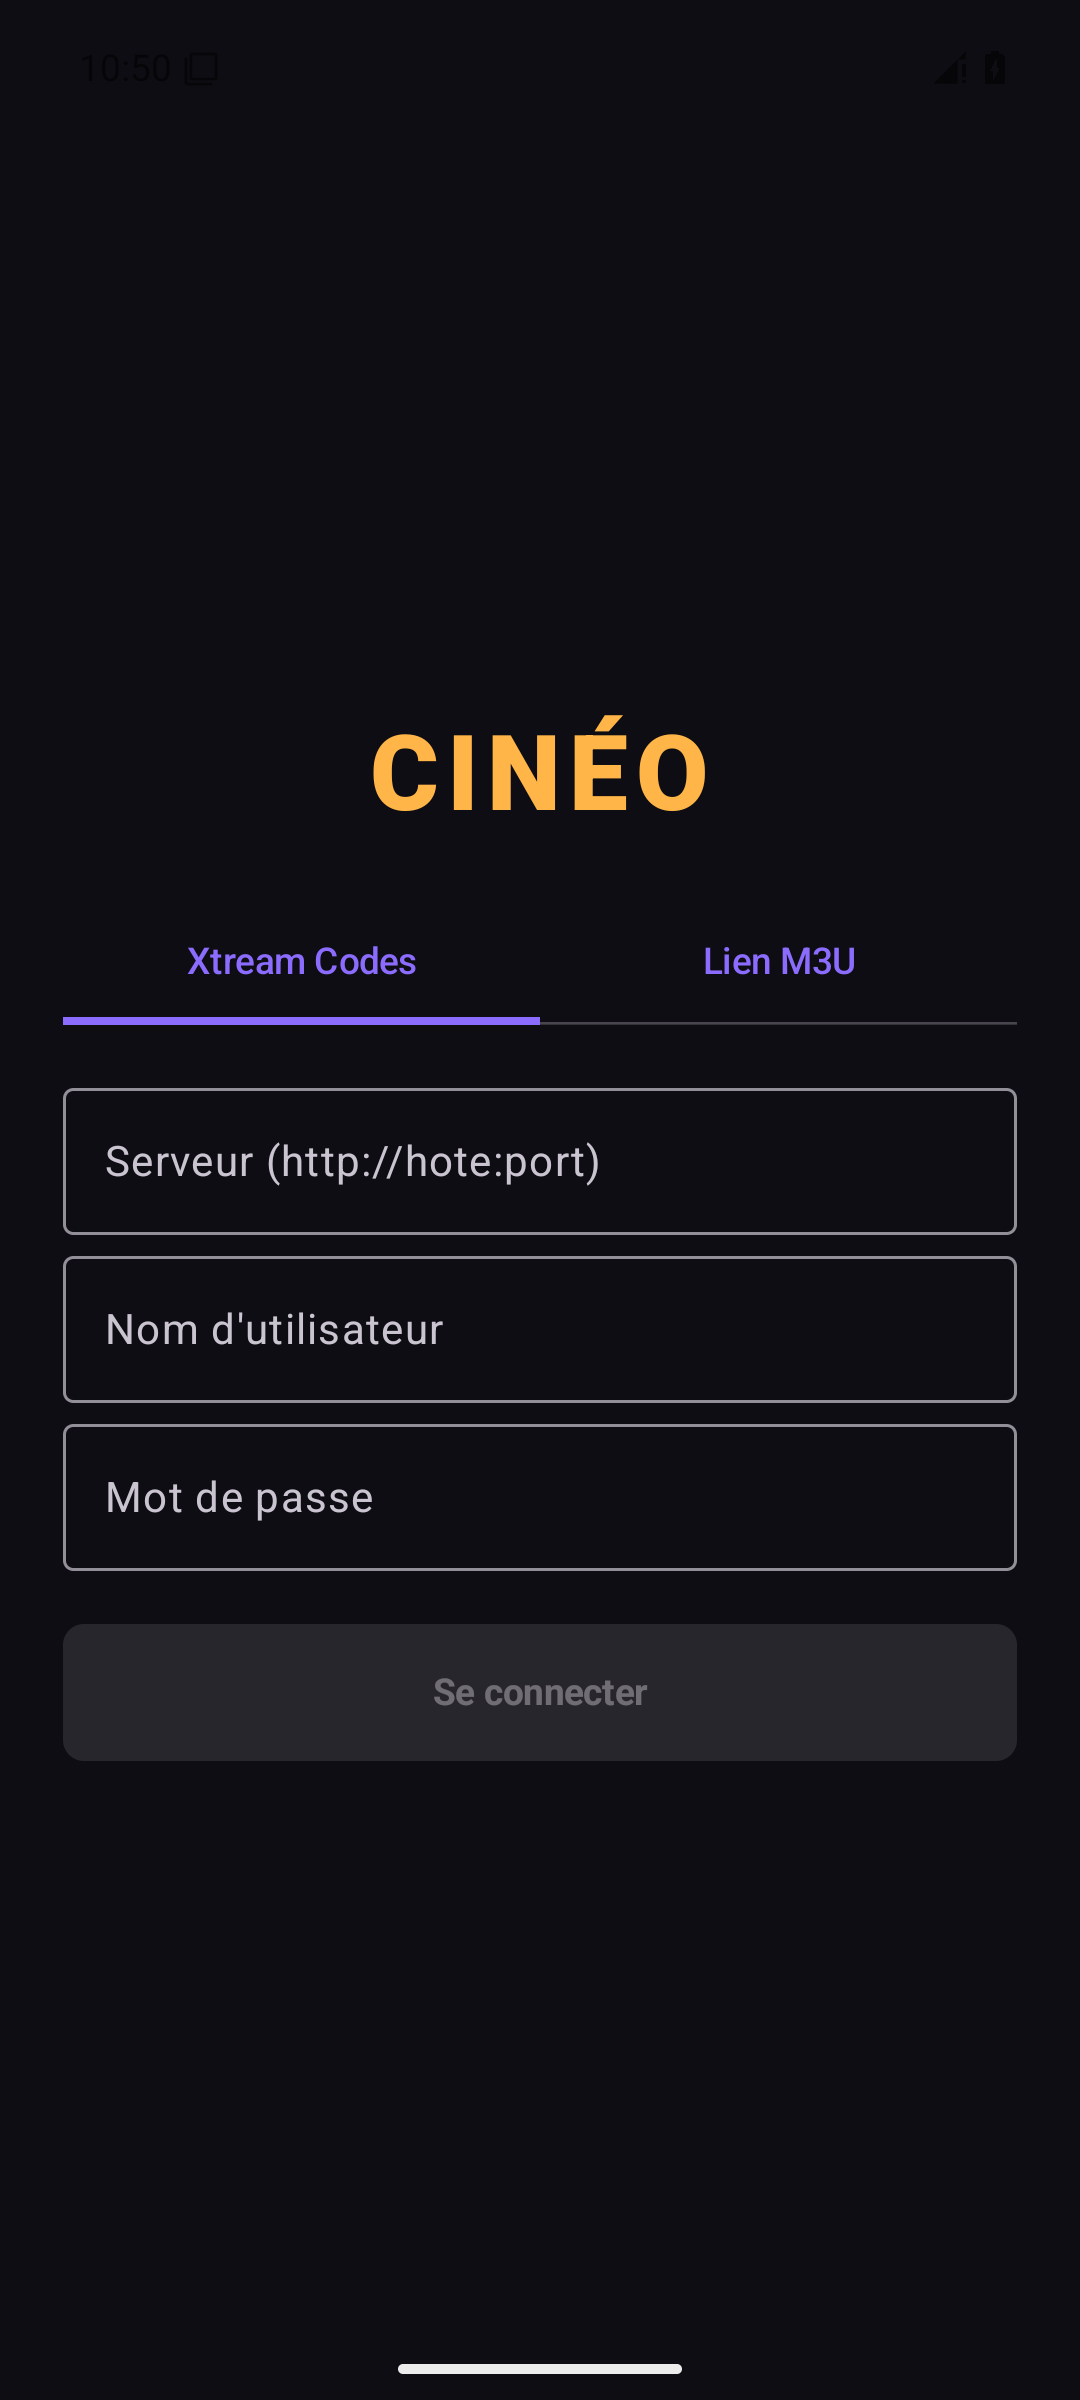
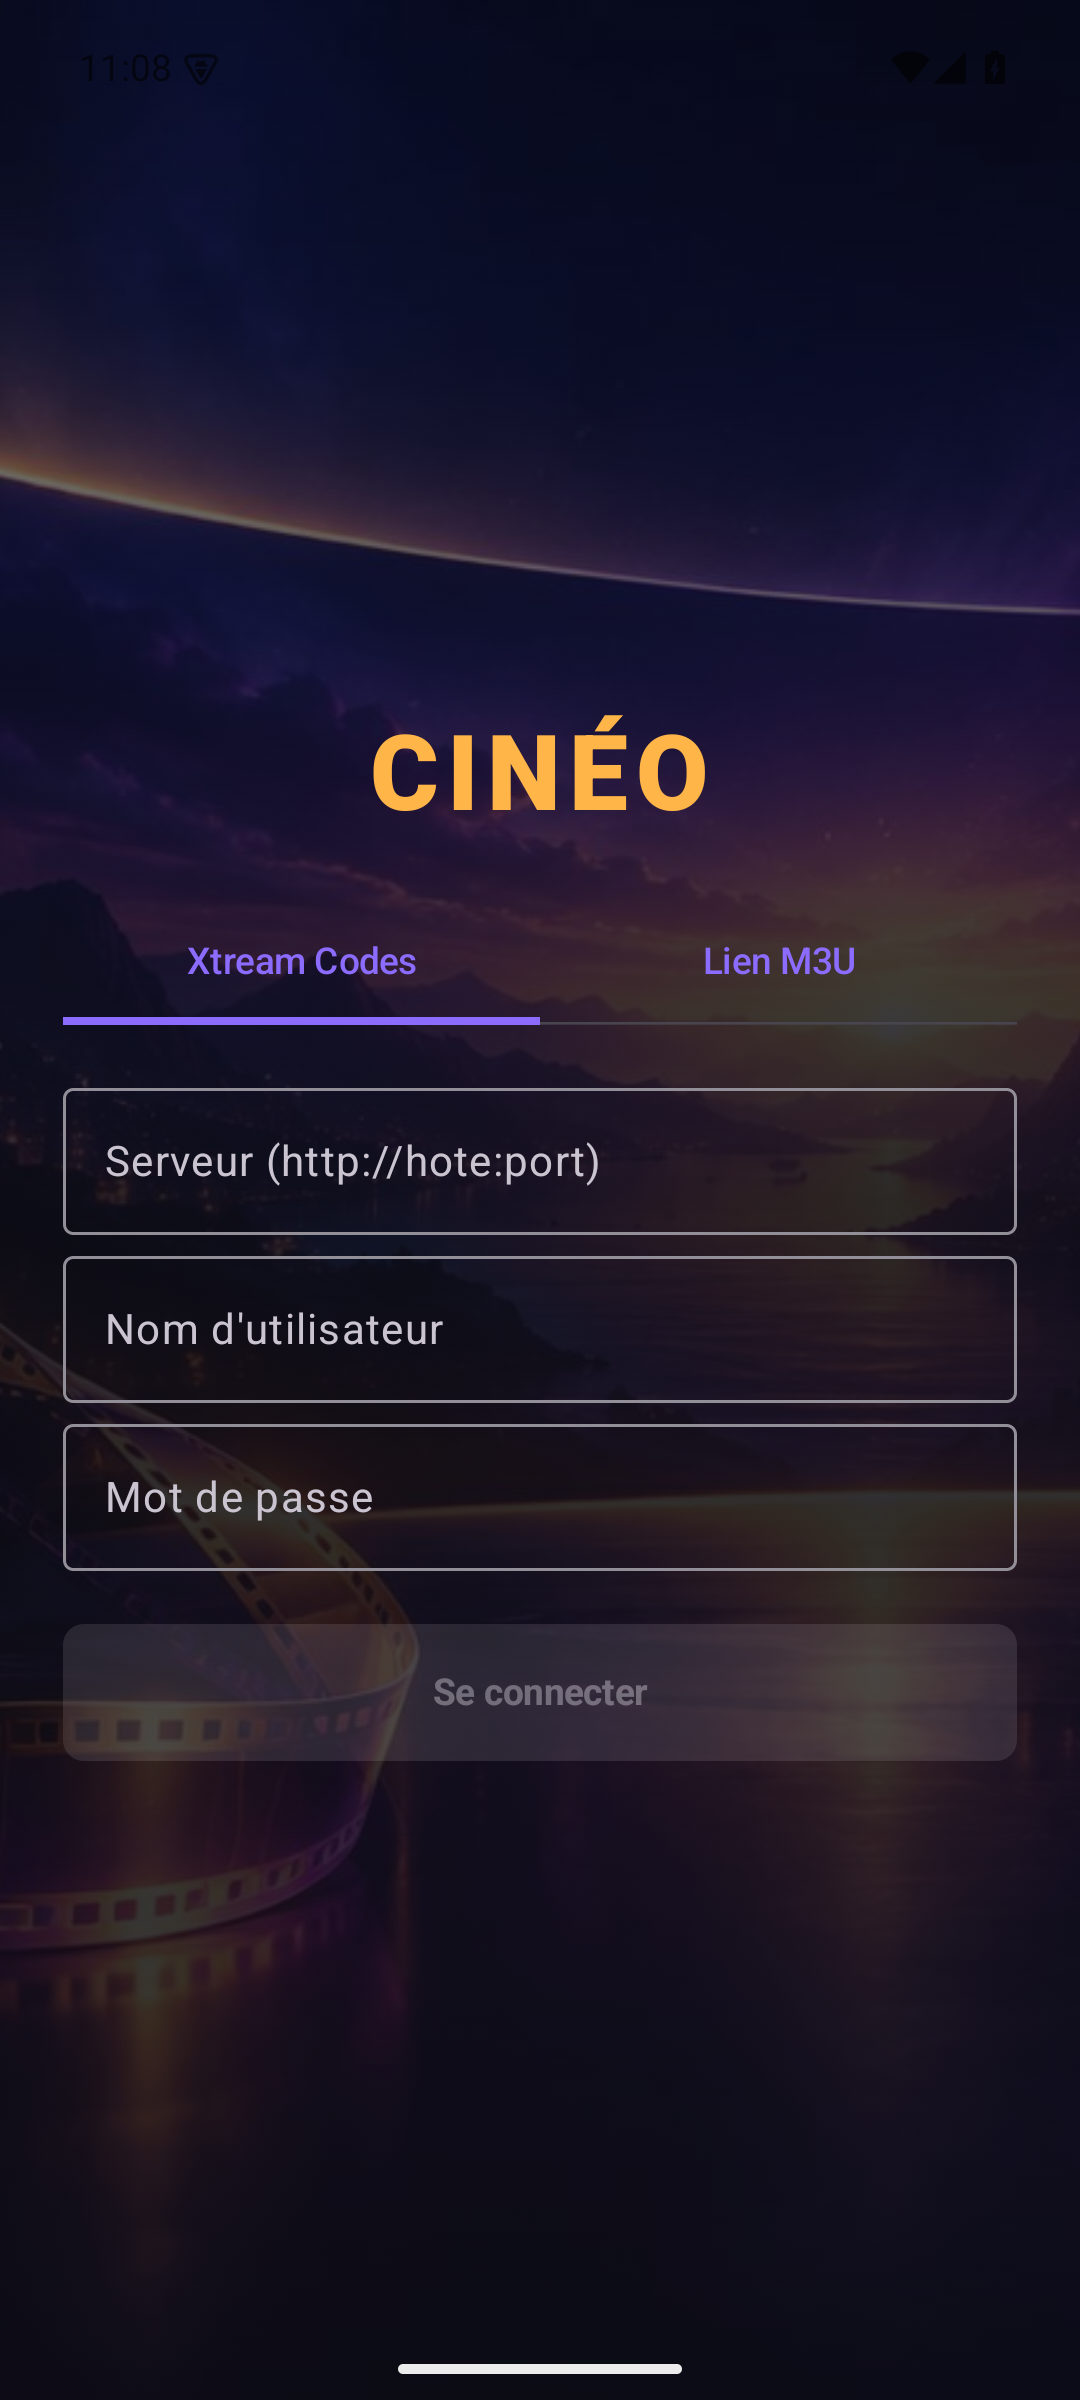
Ajouter le fanart à la connexion

diff --git a/app/src/main/java/com/cineo/app/MainActivity.kt b/app/src/main/java/com/cineo/app/MainActivity.kt
@@ -28,11 +28,13 @@ import androidx.compose.runtime.saveable.rememberSaveable
 import androidx.compose.ui.Alignment
 import androidx.compose.ui.Modifier
 import androidx.compose.ui.draw.clip
+import androidx.compose.ui.draw.paint
 import androidx.compose.ui.graphics.Brush
 import androidx.compose.ui.graphics.Color
 import androidx.compose.ui.graphics.vector.ImageVector
 import androidx.compose.ui.layout.ContentScale
 import androidx.compose.ui.platform.LocalContext
+import androidx.compose.ui.res.painterResource
 import androidx.compose.ui.text.font.FontWeight
 import androidx.compose.ui.text.input.KeyboardType
 import androidx.compose.ui.text.input.PasswordVisualTransformation
@@ -188,7 +190,10 @@ fun LoginScreen(vm: AppVm) {
         )
     }
     Column(
-        Modifier.fillMaxSize().background(Bg).systemBarsPadding().imePadding().verticalScroll(rememberScrollState()).padding(24.dp),
+        Modifier.fillMaxSize()
+            .paint(painterResource(R.drawable.login_fanart), contentScale = ContentScale.Crop)
+            .background(Brush.verticalGradient(listOf(Bg.copy(alpha = 0.45f), Bg.copy(alpha = 0.88f), Bg.copy(alpha = 0.8f))))
+            .systemBarsPadding().imePadding().verticalScroll(rememberScrollState()).padding(24.dp),
         verticalArrangement = Arrangement.Center, horizontalAlignment = Alignment.CenterHorizontally,
     ) {
         Logo(40)
@@ -212,7 +217,7 @@ fun LoginScreen(vm: AppVm) {
             }
             Spacer(Modifier.height(24.dp))
         }
-        TabRow(if (m3u) 1 else 0, containerColor = Bg) {
+        TabRow(if (m3u) 1 else 0, containerColor = Color.Transparent) {
             Tab(!m3u, { m3u = false }, text = { Text("Xtream Codes") })
             Tab(m3u, { m3u = true }, text = { Text("Lien M3U") })
         }
